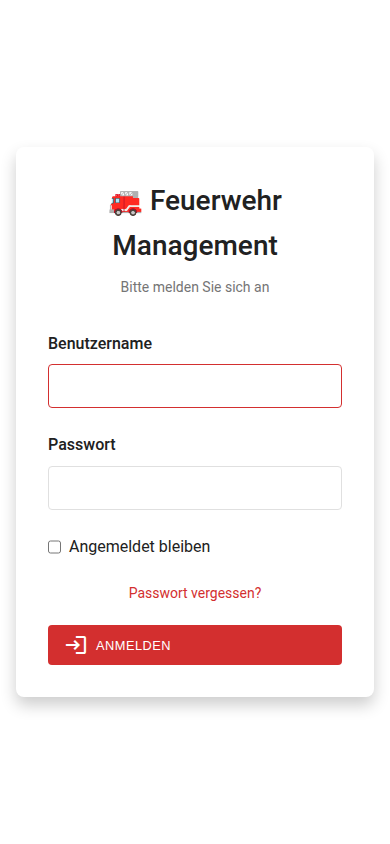
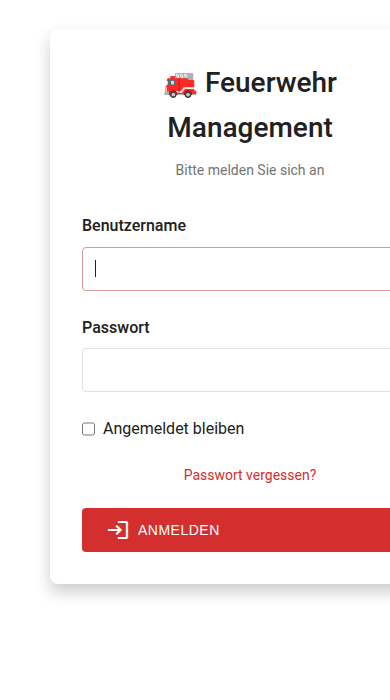
Update README with local installation screenshots and regenerate all screenshots with test data

diff --git a/README.md b/README.md
@@ -134,7 +134,7 @@ http://ihre-domain.de/install.php
 Der Wizard führt Sie durch folgende Schritte:
 
 ##### Schritt 1: System-Voraussetzungen prüfen
-<img src="https://github.com/user-attachments/assets/a8235fe8-fe93-47e2-89d8-54094c59cc45" width="600" alt="System-Voraussetzungen">
+<img src="screenshots/20-install-prerequisites.png" width="600" alt="System-Voraussetzungen">
 
 Der Installer prüft automatisch:
 - ✅ **PHP Version** (7.4.0 oder höher erforderlich)
@@ -147,12 +147,12 @@ Der Installer prüft automatisch:
 Sie können erst fortfahren, wenn alle **erforderlichen** Voraussetzungen erfüllt sind. Warnungen bei empfohlenen Features erlauben das Fortfahren.
 
 ##### Schritt 2: Willkommen
-<img src="https://github.com/user-attachments/assets/01a9529a-c781-419d-ac0d-8a8bac1f53bc" width="600" alt="Willkommen">
+<img src="screenshots/21-install-welcome.png" width="600" alt="Willkommen">
 
 Übersicht über die Einrichtung und was konfiguriert wird.
 
 ##### Schritt 3: Administrator-Benutzer erstellen
-<img src="https://github.com/user-attachments/assets/2626d66a-c1d9-4368-b1f1-fe023d0b07b4" width="600" alt="Admin-Benutzer">
+<img src="screenshots/22-install-admin.png" width="600" alt="Admin-Benutzer">
 
 Erstellen Sie den ersten Admin-Benutzer:
 - **Benutzername** (min. 3 Zeichen)
@@ -161,7 +161,7 @@ Erstellen Sie den ersten Admin-Benutzer:
 Das Passwort wird automatisch mit bcrypt gehashed und verschlüsselt gespeichert.
 
 ##### Schritt 4: E-Mail-Einstellungen
-<img src="https://github.com/user-attachments/assets/3caa9c1a-c498-4fe8-aabe-96c688861c3a" width="600" alt="E-Mail-Einstellungen">
+<img src="screenshots/23-install-email.png" width="600" alt="E-Mail-Einstellungen">
 
 Konfigurieren Sie E-Mail-Einstellungen für Formular-Übermittlungen:
 - **Absender E-Mail-Adresse und Name**
@@ -171,7 +171,7 @@ Konfigurieren Sie E-Mail-Einstellungen für Formular-Übermittlungen:
   - Optional: SMTP-Authentifizierung mit Benutzername/Passwort
 
 ##### Schritt 5: Installation abgeschlossen
-<img src="https://github.com/user-attachments/assets/bd483670-9d30-4b7a-a787-fff44919689e" width="600" alt="Installation abgeschlossen">
+<img src="screenshots/24-install-complete.png" width="600" alt="Installation abgeschlossen">
 
 ✅ Verschlüsselungsschlüssel automatisch generiert (64 Zeichen, AES-256-CBC)  
 ✅ Administrator-Benutzer erstellt  
